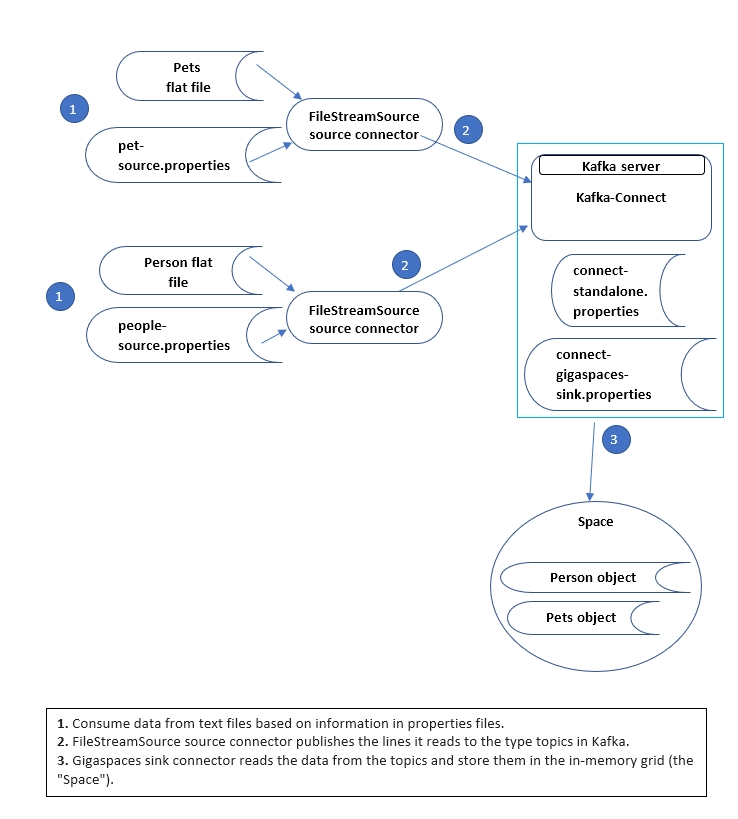
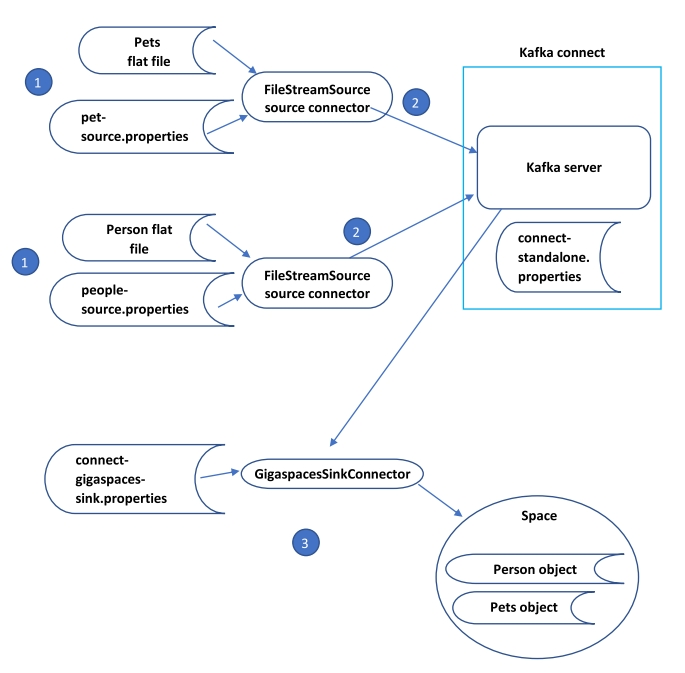
Kafka SH update diagram and Key

diff --git a/site-flare/Content/solution-hub/gigaspaces-kafka-sink-connector.html b/site-flare/Content/solution-hub/gigaspaces-kafka-sink-connector.html
@@ -109,7 +109,7 @@ offset.flush.interval.ms=10000
 		</code></pre><h1>Running the Example</h1><div class="tc-admon-note"><p>The steps must be run in the order indicated below.</p></div><p>In this example, we will consume data from a text file using the <code>FileStreamSource</code> source connector. 
 		This connector will publish the lines it reads to the type topics in Kafka. 
 			The <MadCap:variable name="General.CompanyName" /> sink connector will read the data from the topics and store them in the in-memory grid (the "Space"). 
-			All files are under the <code>example/resources</code> folder.</p><p style="text-align: center;"><img src="../Resources/Static/images/kafka-sh-diagram.jpg" /></p><ol><li>Start Gigaspaces and have a Space running. In this example, we are running the demo project: <code>gs.sh demo</code></li><li MadCap:conditions="Default.DoNotShow">Start Zookeeper.
+			All files are under the <code>example/resources</code> folder.</p><p style="text-align: center;"><img src="../Resources/Static/images/kafka-sh-diagram.jpg" /></p><table style="width: 80%;border-top-left-radius: 3px;border-top-right-radius: 3px;border-bottom-right-radius: 3px;border-bottom-left-radius: 3px;border-left-style: solid;border-left-width: 1px;border-left-color: #a4aab3;border-right-style: solid;border-right-width: 1px;border-right-color: #a4aab3;border-top-style: solid;border-top-width: 1px;border-top-color: #a4aab3;border-bottom-style: solid;border-bottom-width: 1px;border-bottom-color: #a4aab3;"><col style="width: 90px;" /><col /><thead><tr><th colspan="2" style="font-weight: bold;text-align: center;">Key to Diagram</th></tr></thead><tbody><tr><td style="text-align: center;"><img src="../Resources/Static/images/blue-01.png" style="width: 35px;height: 39px;" /></td><td style="text-align: left;">Consume data from text files based on information in properties files.</td></tr><tr><td style="text-align: center;"><img src="../Resources/Static/images/blue-02.png" style="width: 36px;height: 40px;" /></td><td style="text-align: left;">FileStreamSource source connector publishes the lines it reads to the type topics in Kafka.</td></tr><tr><td style="text-align: center;"><img src="../Resources/Static/images/blue-03.png" style="width: 37px;height: 41px;" /></td><td style="text-align: left;">Gigaspaces sink connector reads the data from the topics and stores them in the in-memory grid (the "Space").</td></tr></tbody></table><ol><li>Start Gigaspaces and have a Space running. In this example, we are running the demo project: <code>gs.sh demo</code></li><li MadCap:conditions="Default.DoNotShow">Start Zookeeper.
 <div class="tc-admon-note"><p>Do not use port 2181.</p></div></li><li>Start Kafka using the same port used for Zookeeper.</li><li>Start the connect with the source and sink connectors and see how the data is consumed and published to the space, as shown below:
             <p><code>connect-standalone connect-standalone.properties people-source.properties pet-source.properties connect-gigaspaces-sink.properties</code></p><div class="tc-admon-note"><p>The three connectors properties are found in <code>&lt;path to gigaspaces kafka connector repo&gt;/example/resources</code>.</p></div><div class="tc-admon-note"><p>Ensure that the file parameter in the <code>people-source.properties</code> file and the <code>pet-source.properties</code> file points to the location of the corresponding txt files.</p></div></li><li>Connect to the <MadCap:variable name="General.CompanyName" /> Ops Manager using the <a href="../admin/gs-ops-manager-overview.html#Ops-Manager-URL">Ops Manager URL</a>, and view the types that were defined and the data that was inserted into the spaces by the connector.</li><li><p>From the Ops Manager screen, choose <b>Analyze my data</b>:<br /><img src="../Resources/Static/images/Analyze-OPS-MGR.png" class="tc-picture50" /><br /></p><p>&#160;</p></li><li>
 				In the Spaces Overview, select the <code>demo </code>Space:
